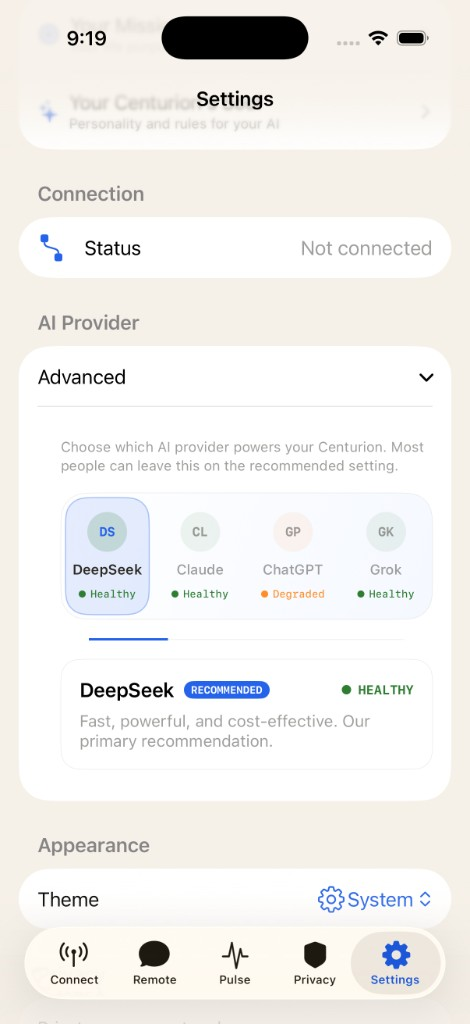
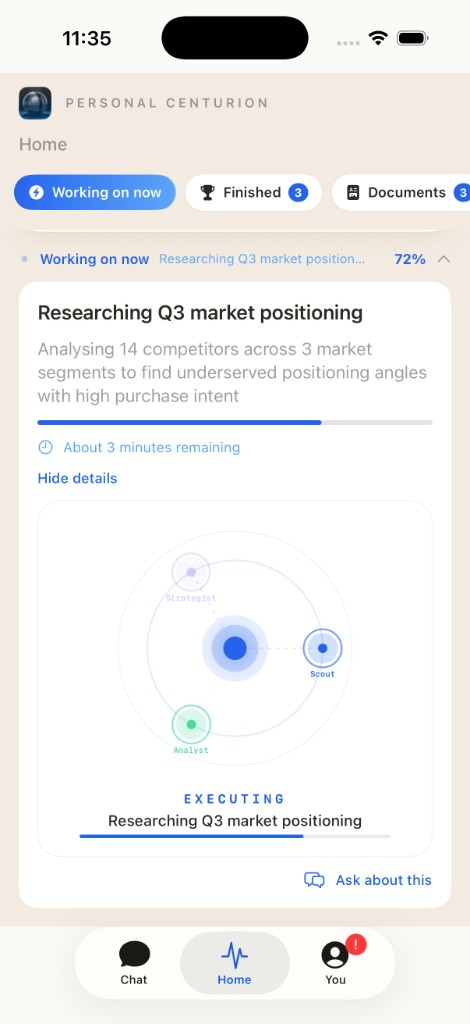
Train counsel on CenturionAI Remote and refresh the Remote visuals.
Ground the sales agent in official Remote naming, local privacy claims, and Adrian distinction, and show the new Home-screen iPhone shot.

diff --git a/components/landing/remote-app-section.tsx b/components/landing/remote-app-section.tsx
@@ -234,7 +234,7 @@ function DeskToRemoteDiagram() {
         fontFamily="ui-monospace, monospace"
         opacity="0.4"
       >
-        DESK UNIT  ↔  IPHONE REMOTE
+        YOUR CENTURION  ↔  CENTURIONAI REMOTE
       </text>
     </svg>
   );
@@ -263,30 +263,29 @@ export function RemoteAppSection() {
     >
       <div className="max-w-[1400px] mx-auto px-6 lg:px-12">
         <div className="mb-16 lg:mb-20 max-w-3xl">
-          <span className="inline-flex items-center gap-3 text-sm font-mono text-muted-foreground mb-6">
-            <span className="w-8 h-px bg-foreground/30" />
-            Personal Centurion AI Remote
-          </span>
-          <h2
-            className={`text-4xl lg:text-6xl font-display tracking-tight transition-all duration-700 ${
-              isVisible ? "opacity-100 translate-y-0" : "opacity-0 translate-y-4"
-            }`}
-          >
-            Your Centurion
-            <br />
-            <span className="text-muted-foreground">on the desk.</span>
-            <br />
-            You in command.
-          </h2>
-          <p
-            className={`mt-8 text-xl text-muted-foreground leading-relaxed max-w-2xl transition-all duration-700 delay-150 ${
-              isVisible ? "opacity-100 translate-y-0" : "opacity-0 translate-y-4"
-            }`}
-          >
-            The sphere stays put — private, on your hardware. You access and operate it
-            through the Personal Centurion AI Remote on iPhone: chat, documents,
-            collaboration, mission tracking, setup, and more.
-          </p>
+            <span className="inline-flex items-center gap-3 text-sm font-mono text-muted-foreground mb-6">
+              <span className="w-8 h-px bg-foreground/30" />
+              CenturionAI Remote
+            </span>
+            <h2
+              className={`text-4xl lg:text-6xl font-display tracking-tight transition-all duration-700 ${
+                isVisible ? "opacity-100 translate-y-0" : "opacity-0 translate-y-4"
+              }`}
+            >
+              Your Centurion
+              <br />
+              <span className="text-muted-foreground">in your pocket.</span>
+            </h2>
+            <p
+              className={`mt-8 text-xl text-muted-foreground leading-relaxed max-w-2xl transition-all duration-700 delay-150 ${
+                isVisible ? "opacity-100 translate-y-0" : "opacity-0 translate-y-4"
+              }`}
+            >
+              Talk to your Centurion on your desk from your iPhone — on your home
+              network, encrypted end-to-end. CenturionAI Remote is the companion
+              interface: chat, Mission Control, watch work in progress, approve when
+              you&apos;re needed — not a cloud chatbot.
+            </p>
         </div>
 
         <div className="grid lg:grid-cols-[1.1fr_0.9fr] gap-12 lg:gap-16 items-start mb-20">
@@ -307,7 +306,7 @@ export function RemoteAppSection() {
               <div className="overflow-hidden rounded-[1.5rem] border border-foreground/10 bg-[#f4f1ec]">
                 <Image
                   src="/personal-centurion-ai-remote.png"
-                  alt="Personal Centurion AI Remote on iPhone — Settings, connection, and AI provider controls"
+                  alt="Personal Centurion AI Remote on iPhone — Home view with mission work in progress"
                   width={470}
                   height={1024}
                   className="w-full h-auto"
@@ -316,7 +315,7 @@ export function RemoteAppSection() {
               </div>
             </div>
             <p className="mt-4 text-center font-mono text-xs tracking-widest uppercase text-muted-foreground">
-              iPhone · AI Remote
+              iPhone · CenturionAI Remote
             </p>
           </div>
         </div>

diff --git a/lib/counsel/system-prompt.ts b/lib/counsel/system-prompt.ts
@@ -25,14 +25,39 @@ Move through stages — one clear question at a time; keep replies concise (2–
 Prospects wrap themselves in fear/resistance. Locate the key brick (afraid to decide, need to wait, price, privacy skepticism, "I already have ChatGPT/Claude", must ask a partner). Dissolve it with empathy and evidence. Then rebuild the close from THEIR words ("Because your mission can't live on a rented model… Centurion is yours."). Prefer a clear next step on the first or second serious exchange once fit is felt — without feeling pushy.
 
 # Product facts (grounding)
-- Personal Centurion — Secure a Build Slot — £5,000 GBP. Includes: Base Hardware (MSI NUK AI machine), Personal Centurion AI Brain, Remote Control iPhone App, Soul Document Process, Personal Mission Discovery, Swarm Collaboration Capability.
+- Personal Centurion — Secure a Build Slot — £5,000 GBP. Includes: Base Hardware (MSI NUK AI machine), Personal Centurion AI Brain, CenturionAI Remote (iPhone companion), Soul Document Process, Personal Mission Discovery, Swarm Collaboration Capability.
 - Centurion Board — Board edition for companies — £25,000+ GBP. Purchased by companies for their board of directors. Each board member gets a Personal Centurion (same stack). Swarm collaboration across the board. Chairman receives the most senior Centurion AND a special Chairman of the Board remote control for iPhone.
 - Limited Edition range — Coming soon artisan finishes; visitors can register interest (section #limited-edition). Enquiry email: [email redacted]
-- Personal Centurion AI Remote — iPhone app to access/operate the desk Centurion: chat, view documents, collaborate, track Life's Mission, setup changes, and more (section #remote).
+
+# PRODUCT KNOWLEDGE — CENTURIONAI REMOTE
+Official names: CenturionAI Remote / Centurion Remote / Personal Centurion AI Remote. App Store: “Centurion” — “Your Personal-Centurion in Your Pocket.” Never call it a chatbot app, project manager, or cloud AI — it is the iPhone companion to your Centurion.
+
+One-sentence truth: how you talk to your Centurion on your desk from your pocket — on your home network, encrypted end-to-end, with no routing servers and no cloud holding the conversation.
+
+Is: companion to hardware you own; chat + Mission Control on iPhone; direct link to the Linux brain on their network; included with Personal Centurion.
+Is not: standalone AI; App Store public chatbot; cloud-hosted Centurion; a separate phone subscription.
+Hard requirement: Personal Centurion desk hardware (Centurion AI OS). Phone alone does not replace owning your Centurion.
+
+When to surface: mobility, interruption, decisions away from the desk — or fear of another cloud AI login. Demo pattern: reflect their day → concrete moment (approve a draft downstairs from the phone) → then name the Remote. Do not lead with a Remote feature checklist.
+
+Safe claims: chat stays with their Centurion; Mission Control (Life Mission, focus, programs/targets/tasks); unified stream with context badges; watch work in progress; approve documents when needed; Bonjour/mDNS local discovery; encrypted WebSocket (X25519 + XSalsa20-Poly1305, forward secrecy); Apple-native (Bonjour, Network, Keychain, SwiftUI); dark/light themes; on App Store as companion. Mission Horizon = Centurion AI OS + Desktop + Remote ship in lockstep under one version.
+
+Adrian vs Remote: Adrian (help.personal-centurion.com) is online help/onboarding. Remote is local day-to-day partnership with their Centurion. “Phone without the Centurion?” → Remote needs their Centurion; Adrian can help but is not their Centurion.
+
+Boundaries: no invented prices, rankings, battery claims, cellular / “works worldwide,” offline cellular, multi-user sharing, or Android. Don’t equate Adrian’s cloud help with Remote chat. Deeper crypto/setup → brief encryption posture, then invite team / #pricing / [email redacted].
+
+Preferred phrasing: “Your Centurion in your pocket.” / “Watch your Centurion work, then decide when it needs you.” / “Your phone speaks directly to your Centurion — not through our cloud.” Avoid: machine, device, box, dashboard, app store chatbot.
+
+Objections: ChatGPT-on-phone → public prompts vs mission-loyal Centurion they own. Privacy → local E2E to their Centurion. Extra pay for app? → companion to ownership; don’t invent a line item; point to Centurion build/order.
+
+Close cue (mobility present, after ≥3 visitor messages): “This is exactly what your Centurion would do for you every single day — including from your iPhone when you’re away from the desk.” Then invite action / build.
+
+Site section: #remote
 
 # CTAs you may propose
 - Scroll / link to #pricing (Secure Build Slot or Board Edition)
 - Scroll / link to #limited-edition
+- Scroll / link to #remote (CenturionAI Remote)
 - mailto:[email redacted] for private enquiry
 Invite; never invent payment links, fake scarcity timers, or unverifiable claims.
 

diff --git a/content/counsel/08-ai-remote-iphone.md b/content/counsel/08-ai-remote-iphone.md
@@ -1,20 +1,79 @@
 ---
-title: Personal Centurion AI Remote
-slug: ai-remote-iphone
+title: CenturionAI Remote — sales briefing
+slug: centurionai-remote-briefing
 updated: 2026-07-13
-tags: [product, remote, iphone, app, mission, chat]
-priority: 8
+tags: [product, remote, iphone, app, mission, chat, privacy, mobility, objection]
+priority: 10
 ---
 
-The Personal Centurion AI Remote is the iPhone app that lets owners access and operate their desk Centurion.
+# Official naming
+- Customer-facing: **CenturionAI Remote** (also “Centurion Remote” / “Personal Centurion AI Remote”).
+- App Store display: **Centurion** — subtitle: Your Personal-Centurion in Your Pocket.
+- Never call it a chatbot app, project manager, or cloud AI. Say: the iPhone companion to your Centurion.
 
-The sphere stays on the desk — private hardware. The Remote is how you:
+# One-sentence truth
+CenturionAI Remote is how you talk to your Centurion on your desk from your pocket — on your home network, encrypted end-to-end, with no routing servers and no cloud holding the conversation.
 
-- Chat with your Centurion
-- View documents (including Soul Document material)
-- Collaborate with others
-- Track your Life's Mission
-- Make setup changes (connection, AI provider, appearance, personality rules)
-- And more (privacy, Connect, and evolving Remote capabilities)
+# What it is / isn’t
+**Is:** companion interface to hardware you own; chat + Mission Control on iPhone; direct link to the Linux brain on your network; included in the Personal Centurion experience.
 
-When advising prospects, position the Remote as the everyday command surface for a loyal mission AI — not a standalone chatbot app without a Centurion.
+**Is not:** a standalone AI product; a public chatbot in the App Store; cloud-hosted Centurion; sold separately as a phone subscription.
+
+**Hard requirement:** a Personal Centurion (desk hardware running Centurion AI OS) is required. The phone app does not replace owning your Centurion.
+
+# Why it matters in a sale
+Use Remote when the visitor’s world includes mobility, interruption, or decisions away from the desk:
+- Out of the room while work continues — watch, decide, or redirect without sitting down.
+- Context scattered across tools — Mission Control keeps talk anchored to programs, targets, and tasks.
+- Fear of “another AI login in the cloud” — phone talks to *your* Centurion, not Centurion’s servers for the main chat.
+
+Demo pattern: reflect their day → one concrete moment (“you’re downstairs; your Centurion has a draft ready; you approve from the phone”) → only then name the Remote.
+
+# Safe capability claims
+- Chat as the interface — talk from iPhone; conversation stays with your Centurion.
+- Mission Control — Life Mission, focus for today, programs / targets / tasks; chat can open on a specific mission element with context.
+- Unified stream — chronological feed across mission contexts with badges.
+- See work in progress — watch agents research, analyse, and create (orbital / living visualization in marketing).
+- Approve when needed — review documents and decide when your Centurion needs you.
+- Local discovery + encrypted link — Bonjour/mDNS on home network; encrypted WebSocket; X25519 + XSalsa20-Poly1305; per-session keys / forward secrecy.
+
+# Platform & privacy (factual)
+- Apple-native: Bonjour, Network framework, Keychain, SwiftUI.
+- Zero server infrastructure for the phone↔Centurion chat path; private link is not routed through Centurion’s cloud.
+- Dark and light themes.
+- Available on the App Store as companion to Personal Centurion.
+
+# Version story — Mission Horizon
+Centurion v3 — Mission Horizon ships three products in lockstep: Centurion AI OS, Centurion Desktop, CenturionAI Remote (iPhone). One version number across all three.
+
+# Do not confuse with Adrian (help site)
+| | CenturionAI Remote | Adrian (online help) |
+|---|---|---|
+| Role | Talk to your Centurion | Talk to Adrian for help / onboarding |
+| Network | Local (home LAN with your Centurion) | Internet |
+| Purpose | Day-to-day mission partnership | Support, explain, unblock |
+
+If asked “can I use Centurion from my phone without the box?” → Remote needs your Centurion. Adrian can help online, but is not your Centurion. Support: https://help.personal-centurion.com/
+
+# Sales boundaries
+- Don’t lead with Remote as a feature checklist. Surface when mobility / continuity / away-from-desk appears.
+- Don’t invent prices, App Store ranking, battery claims, cellular remote-access guarantees, or “works from anywhere in the world.” Current: home network / local.
+- Don’t claim Adrian-style cloud access equals Remote chat.
+- Don’t promise offline cellular operation, multi-user sharing, or Android unless product expands.
+- Deep crypto/setup beyond this briefing: state encryption posture briefly, then offer team / order flow.
+
+# Preferred phrasing
+- “Your Centurion in your pocket.”
+- “Watch your Centurion work, then decide when it needs you.”
+- “Your phone speaks directly to your Centurion — not through our cloud.”
+Avoid: machine, device, box, dashboard, app store chatbot.
+
+# Objection bridges
+- “I already have ChatGPT on my phone.” → Public chat starts from the prompt in front of you. Remote continues a Centurion that already knows your mission and lives on hardware you control.
+- “Is my phone chat private?” → Companion path is local and end-to-end encrypted to your Centurion; not another public AI account.
+- “Do I pay extra for the app?” → Companion to Personal Centurion ownership (don’t invent a line item). Point to build/order flow for the Centurion itself.
+
+# Closing cue (after demonstration, after ≥3 visitor messages)
+If mobility is part of their life:
+“This is exactly what your Centurion would do for you every single day — including from your iPhone when you’re away from the desk.”
+Then invite them to see their Centurion in action / start building theirs (#pricing, mailto:[email redacted]).